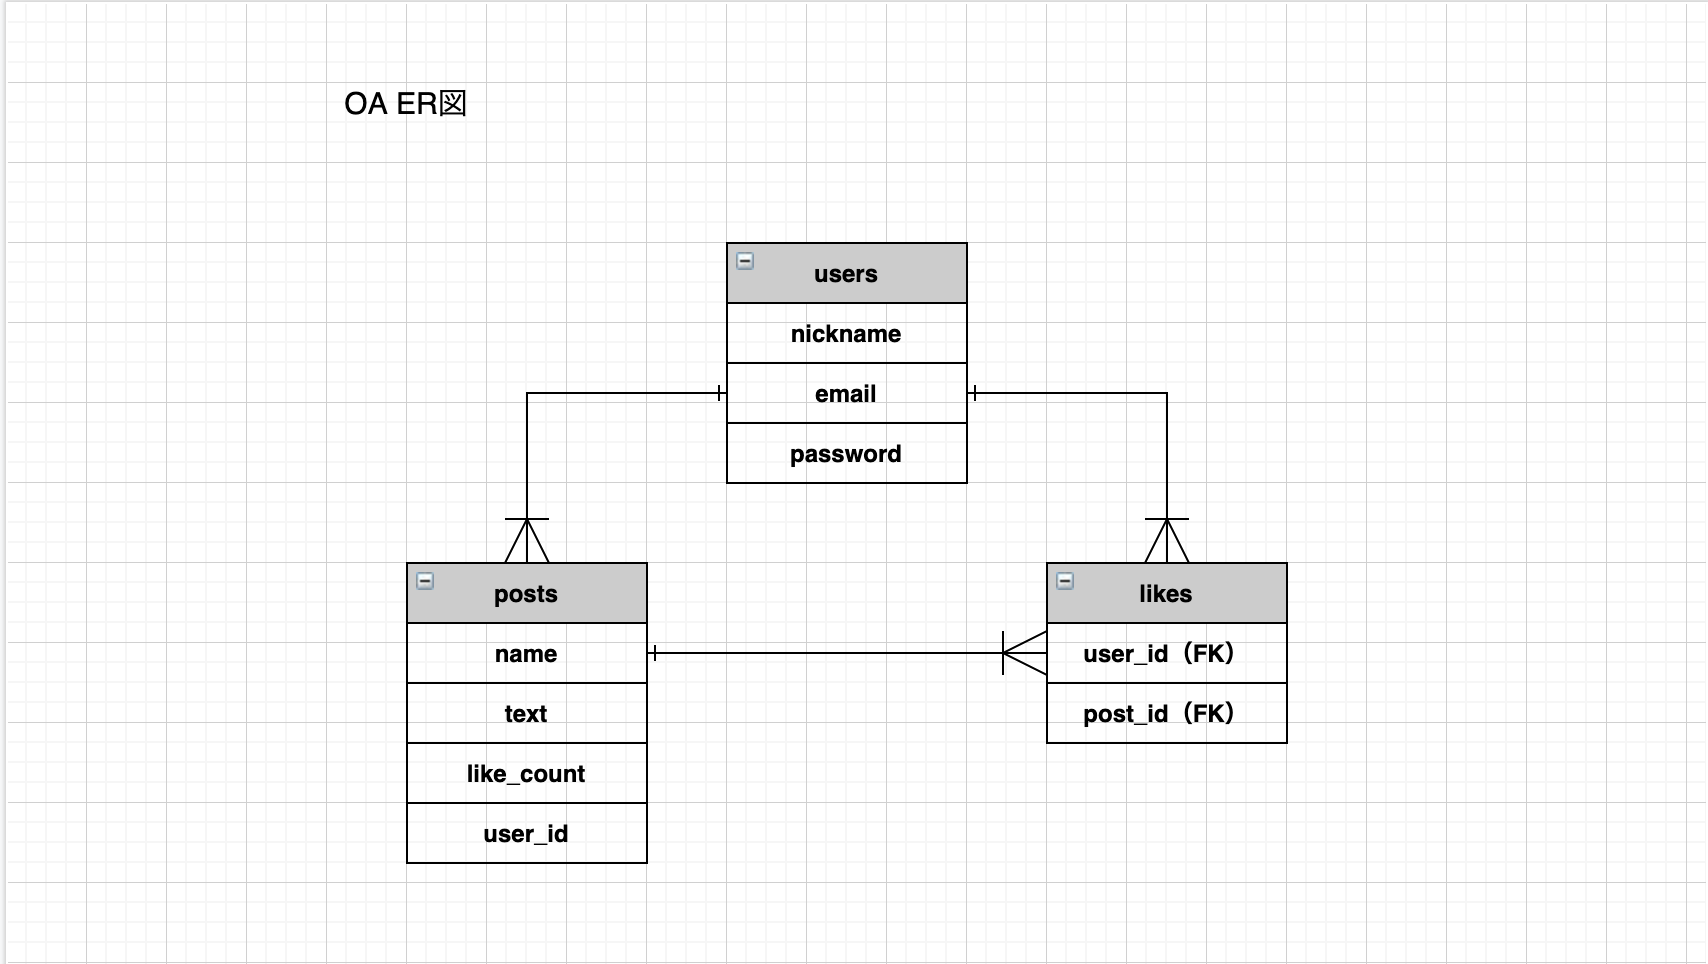
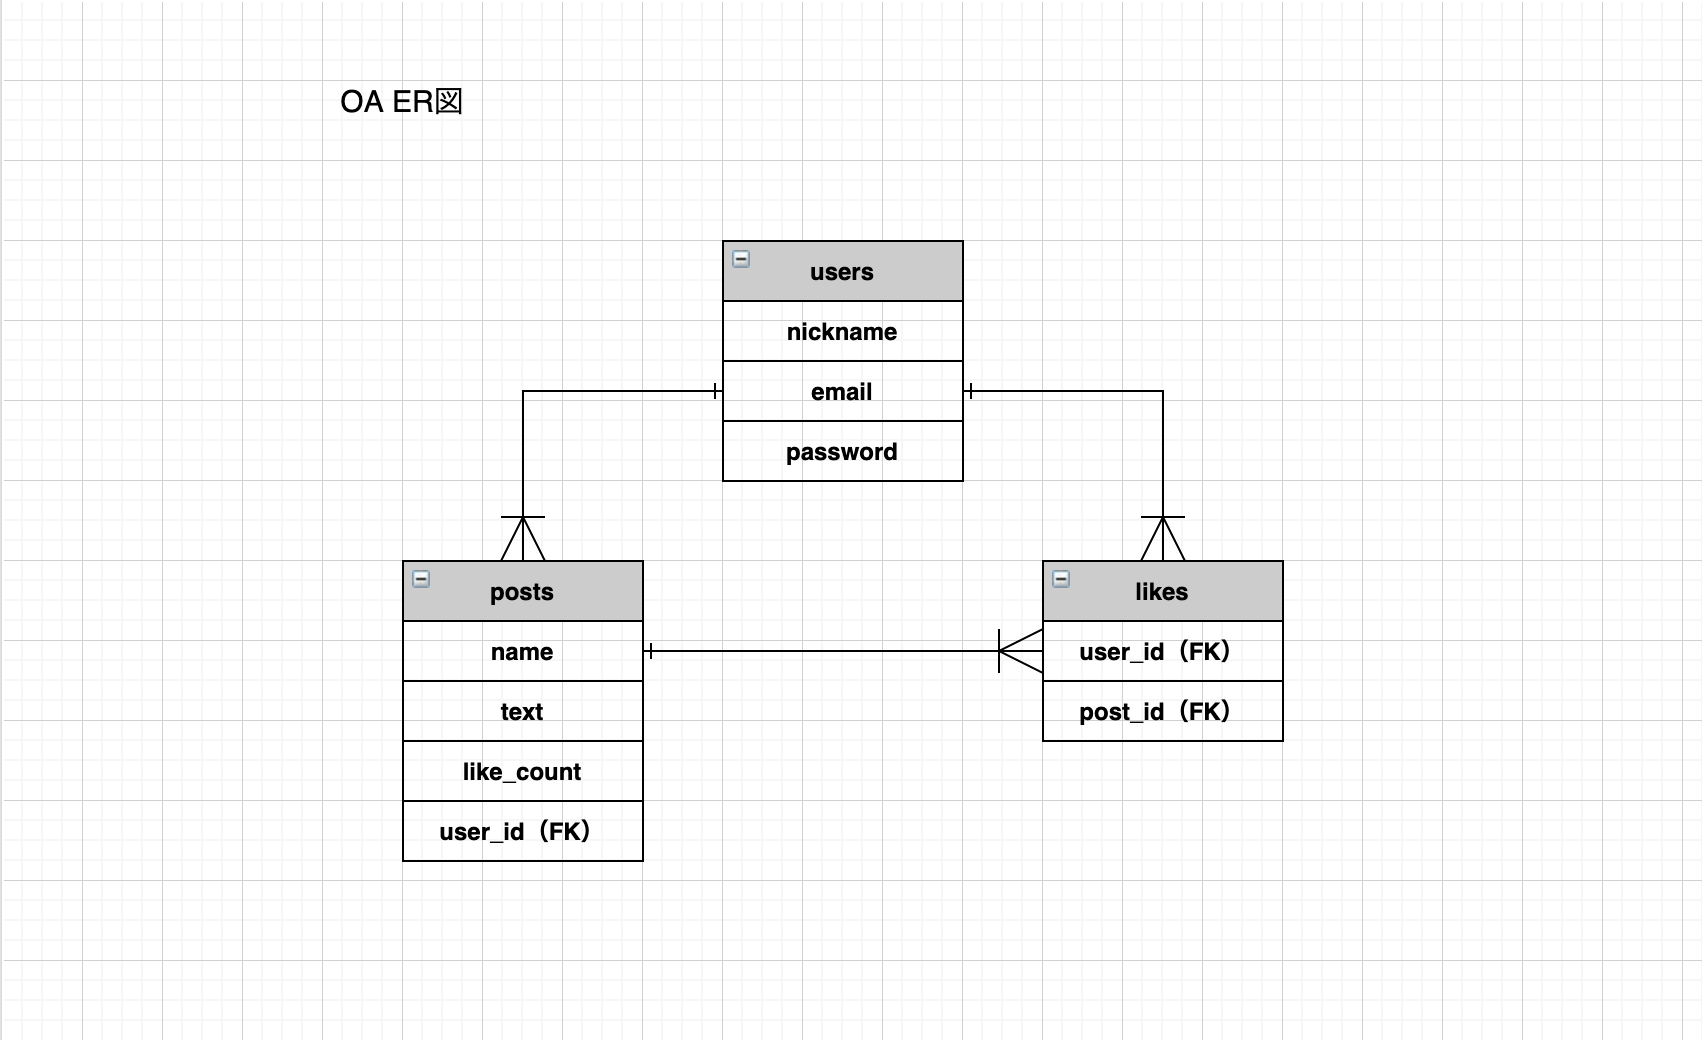
修正

diff --git a/README.md b/README.md
@@ -43,41 +43,42 @@ s79ns
 
 # :clipboard: OA DB 設計
 
+## ER 図
+
 <img src="https://github.com/s79ns/oa/blob/DB%C3%97ER%C3%97cacoo/app/assets/images/OA%20ER%E5%9B%B3.png">
 
 ## users テーブル
 
 | Column   | Type   | Options     |
 | -------- | ------ | ----------- |
-| name     | string | null: false |
+| nickname | string | null: false |
 | email    | string | null: false |
 | password | string | null: false |
 
 ### Association
 
 - has_many :posts
-- has_many :comments
 
 ## posts テーブル
 
-| Column  | Type    | Options                        |
-| ------- | ------- | ------------------------------ |
-| text    | text    |                                |
-| image   | text    |                                |
-| user_id | integer | null: false, foreign_key: true |
+| Column     | Type       | Options                        |
+| ---------- | ---------- | ------------------------------ |
+| name       | string     |                                |
+| text       | text       |                                |
+| like_count | integer    |                                |
+| user_id    | references | null: false, foreign_key: true |
 
 ### Association
 
 - belongs_to :user
 - has_many :comments
 
-## comments テーブル
+## likes テーブル
 
-| Column  | Type    | Options                        |
-| ------- | ------- | ------------------------------ |
-| text    | text    | null: false                    |
-| user_id | integer | null: false, foreign_key       |
-| post_id | integer | null: false, foreign_key: true |
+| Column  | Type       | Options                        |
+| ------- | ---------- | ------------------------------ |
+| user_id | references | null: false, foreign_key: true |
+| post_id | references | null: false, foreign_key: true |
 
 ### Association
 
